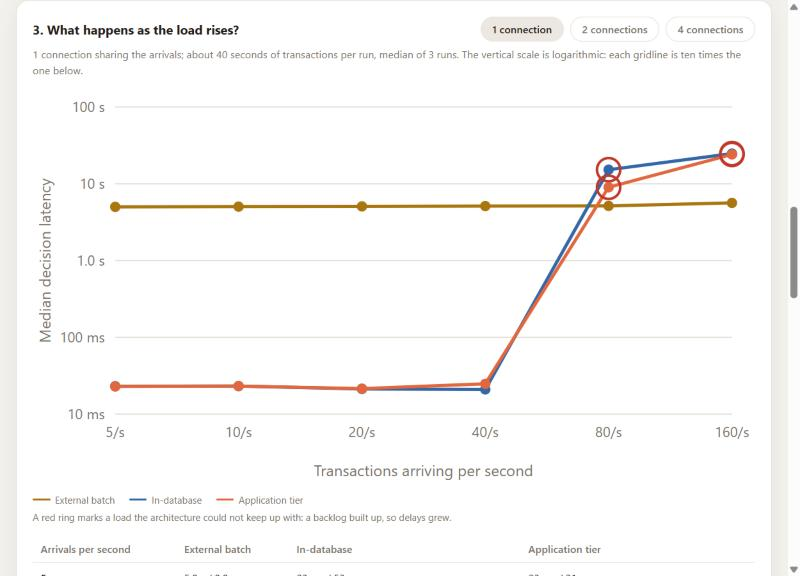
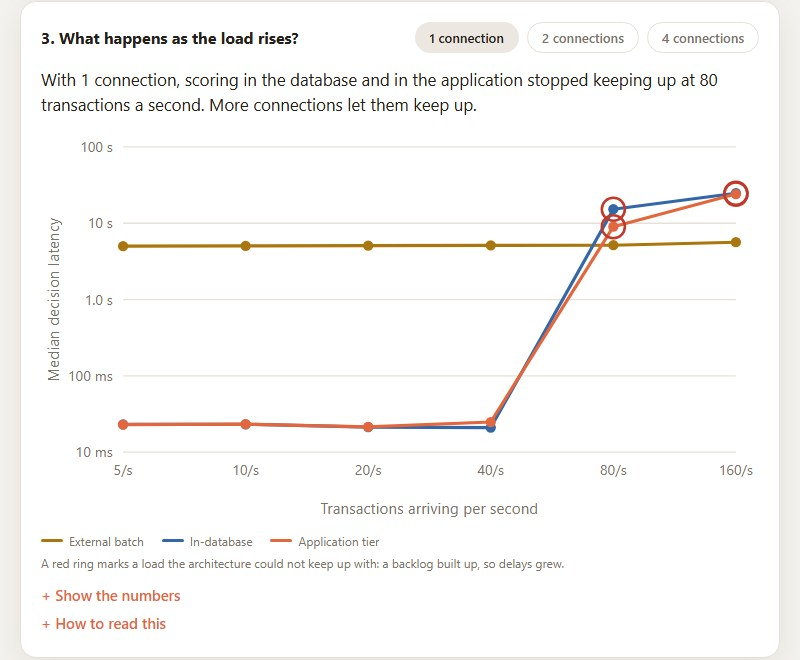
Make the results page short, with the detail behind show links
The results page now opens with a five-line summary built from the result
files, gives each section one plain sentence, and keeps the longer
explanations, the tables and the care notes behind "show" links. A Learn more
section links to this repository. The pictures and the test count in the
README are updated.

diff --git a/admin-dashboard/results.js b/admin-dashboard/results.js
@@ -72,6 +72,17 @@ function fmtNum(n, digits) {
   return typeof n === "number" ? n.toFixed(digits) : "–";
 }
 
+function pct(x) {
+  return typeof x === "number" ? `${Math.round(x * 100)}%` : "–";
+}
+
+// "23 ms inside the database and 23 ms in the application" reads badly when the two are the same
+function onArrivalPhrase(inDatabase, application) {
+  const a = fmtMs(inDatabase), b = fmtMs(application);
+  return a === b ? `about ${a}, whether inside the database or in the application`
+    : `about ${a} inside the database and ${b} in the application`;
+}
+
 function latencyCell(row) {
   const text = `${fmtMs(row.p50_ms)} / ${fmtMs(row.p99_ms)}`;
   if (!row.saturated) return text;
@@ -150,6 +161,8 @@ function legend(container, entries, note) {
 function renderDetection(d) {
   const panel = document.getElementById("detectionPanel");
   const labels = { precision: "Precision", recall: "Recall", f1: "F1 score", pr_auc: "PR-AUC", fpr: "False-positive rate" };
+  document.getElementById("detectionTake").textContent =
+    `The model found ${pct(d.metrics.recall.value)} of the frauds in the test. About ${pct(d.metrics.precision.value)} of the transactions it flagged were really fraud.`;
   document.getElementById("detectionHint").textContent =
     `Measured on the later ${d.test_transactions.toLocaleString()} transactions (${d.test_frauds} frauds), after training on the earlier ones, with the real fraud prevalence restored. ` +
     `With so few frauds the intervals are wide. Precision is ${fmtNum(d.precision_before_prevalence_restored, 2)} before the prevalence is restored, which is why that step matters.`;
@@ -167,6 +180,9 @@ function renderDetection(d) {
 }
 
 function renderBaseline(b) {
+  document.getElementById("baselineTake").textContent =
+    `A batch job took about ${fmtMs(b.architectures.external_batch.p50_ms)} to decide, because it waits for its timer. ` +
+    `Scoring as the transaction arrives took ${onArrivalPhrase(b.architectures.in_database.p50_ms, b.architectures.application.p50_ms)}.`;
   document.getElementById("baselineHint").textContent =
     `${b.transactions.toLocaleString()} transactions at ${b.rate_per_s} per second over one connection; median of ${b.runs} runs. ` +
     `A batch job that polls every ${b.batch_interval_s} seconds cannot decide faster than its polling interval; scoring on arrival decides in tens of milliseconds. The scores were identical in all three.`;
@@ -187,6 +203,31 @@ function renderSweep(s) {
   const connectionsAvailable = [...new Set(s.points.map((p) => p.connections))].sort((a, b) => a - b);
   let selected = connectionsAvailable[0];
   const pills = document.getElementById("connectionPills");
+
+  // one sentence, read from the data: where the two designs that score on arrival stopped keeping up with the fewest connections
+  const fewest = connectionsAvailable[0];
+  const firstSaturated = (mode) => {
+    const hit = s.points.filter((p) => p.connections === fewest).sort((a, b) => a.rate_per_s - b.rate_per_s)
+      .find((p) => p.architectures[mode].saturated);
+    return hit ? hit.rate_per_s : null;
+  };
+  const inDb = firstSaturated("in_database"), inApp = firstSaturated("application");
+  const conn = `${fewest} connection${fewest === 1 ? "" : "s"}`;
+  let take;
+  if (inDb && inApp) {
+    take = inDb === inApp
+      ? `With ${conn}, scoring in the database and in the application stopped keeping up at ${inDb} transactions a second.`
+      : `With ${conn}, scoring stopped keeping up at ${inDb} a second inside the database and at ${inApp} a second in the application.`;
+  } else if (inDb || inApp) {
+    take = `With ${conn}, scoring ${inDb ? "inside the database" : "in the application"} stopped keeping up at ${inDb || inApp} transactions a second.`;
+  } else {
+    take = `With ${conn}, both designs that score on arrival kept up at every load tested.`;
+  }
+  const limit = Math.min(...[inDb, inApp].filter(Boolean));
+  if (Number.isFinite(limit) && s.points.some((p) => p.connections > fewest && p.rate_per_s >= limit && !p.architectures.in_database.saturated && !p.architectures.application.saturated)) {
+    take += " More connections let them keep up.";
+  }
+  document.getElementById("sweepTake").textContent = take;
 
   function draw() {
     clear(pills);
@@ -240,6 +281,10 @@ function renderSweep(s) {
 function renderNetwork(n) {
   const roundTrips = [...new Set(n.points.map((p) => Math.round(p.round_trip_ms)))].sort((a, b) => a - b);
   const find = (rt, reads) => n.points.find((p) => Math.round(p.round_trip_ms) === rt && p.reads === reads);
+  const farthest = find(roundTrips[roundTrips.length - 1], 3);
+  document.getElementById("networkTake").textContent = farthest
+    ? `With 3 lookups per transaction and a round trip of ${roundTrips[roundTrips.length - 1]} ms, the application tier took ${fmtMs(farthest.architectures.application.p50_ms)} against ${fmtMs(farthest.architectures.in_database.p50_ms)} for the in-database design.`
+    : "The further the database is from the application, the longer the application tier waits on each lookup.";
   const line = (mode, reads, dashed) => ({
     color: MODE_COLOR[mode], dashed,
     points: roundTrips.map((rt, i) => ({ i, y: (find(rt, reads) || { architectures: {} }).architectures[mode]?.p50_ms })),
@@ -273,6 +318,31 @@ function renderNetwork(n) {
   holder.append(table(["Round trip", "Reads", "External batch", "In-database", "Application tier"], rows));
   holder.append(h("p", { class: "table-note" }, "Each cell: median decision latency."));
   document.getElementById("networkPanel").hidden = false;
+}
+
+// A few plain lines at the top, built from the same result files as everything below
+function renderSummary(results) {
+  const items = [];
+  const b = results.baseline && results.baseline.architectures;
+  if (b) {
+    items.push(`A batch job takes about ${fmtMs(b.external_batch.p50_ms)} to reach a decision.`);
+    items.push(`Scoring as the transaction arrives takes ${onArrivalPhrase(b.in_database.p50_ms, b.application.p50_ms)}.`);
+  }
+  if (results.network) {
+    const trips = [...new Set(results.network.points.map((p) => Math.round(p.round_trip_ms)))].sort((a, c) => a - c);
+    const far = results.network.points.find((p) => Math.round(p.round_trip_ms) === trips[trips.length - 1] && p.reads === 3);
+    if (far) {
+      items.push(`Far from the database, the application waits on every lookup: ${fmtMs(far.architectures.application.p50_ms)} against ${fmtMs(far.architectures.in_database.p50_ms)} at a ${trips[trips.length - 1]} ms round trip.`);
+    }
+  }
+  if (results.detection) {
+    items.push(`The model found ${pct(results.detection.metrics.recall.value)} of the frauds in a test of ${results.detection.test_transactions.toLocaleString()} transactions.`);
+  }
+  if (items.length) items.push("All three use the same model and give the same scores, so only the timing differs.");
+  const list = document.getElementById("summaryList");
+  clear(list);
+  items.forEach((text) => list.append(h("li", {}, text)));
+  document.getElementById("summaryPanel").hidden = !items.length;
 }
 
 function renderNotes(summary) {
@@ -313,6 +383,7 @@ async function load() {
     if (!response.ok) throw new Error(`The server answered ${response.status}`);
     const { results } = await response.json();
 
+    renderSummary(results);
     if (results.detection) renderDetection(results.detection);
     if (results.baseline) renderBaseline(results.baseline);
     if (results.sweep) renderSweep(results.sweep);

diff --git a/admin-dashboard/results.html b/admin-dashboard/results.html
@@ -22,13 +22,22 @@
 
     <section class="panel" id="introPanel">
       <h2>What this page shows</h2>
-      <p class="panel-hint">The study compares three ways of scoring transactions for fraud with the same model: an <strong>external batch</strong> job that polls the database, scoring <strong>inside the database</strong> as each row is stored, and scoring in the <strong>application tier</strong> (the design this live demo uses). Every figure below comes from the study's benchmark scripts and result files; none is measured on this dashboard or on the live server.</p>
-      <p class="panel-hint">Decision latency is the time from a transaction&rsquo;s scheduled arrival to the moment its fraud score is saved, so waiting in a queue counts. The data are a public dataset of European card transactions used as a stand-in; they say nothing about fraud rates in Uganda.</p>
+      <p class="panel-hint">The same fraud model was run three ways: in a separate batch job, inside the database, and in the application. This page shows which one reaches a decision first. Shorter is better.</p>
+      <details class="more">
+        <summary>More about this page</summary>
+        <p class="panel-hint">The three ways are an <strong>external batch</strong> job that polls the database, scoring <strong>inside the database</strong> as each row is stored, and scoring in the <strong>application tier</strong> (the design this live demo uses). Every figure on this page comes from the study's benchmark scripts and result files; none is measured on this dashboard or on the live server.</p>
+        <p class="panel-hint">Decision latency is the time from a transaction&rsquo;s scheduled arrival to the moment its fraud score is saved, so waiting in a queue counts. The data are a public dataset of European card transactions used as a stand-in; they say nothing about fraud rates in Uganda.</p>
+      </details>
       <p class="results-status" id="status">Loading the results&hellip;</p>
     </section>
 
-    <section class="panel" id="pipelinePanel">
-      <h2>How a transaction is scored</h2>
+    <section class="panel" id="summaryPanel" hidden>
+      <h2>In short</h2>
+      <ul class="summary-list" id="summaryList"></ul>
+    </section>
+
+    <details class="panel about-panel" id="pipelinePanel">
+      <summary><h2>How a transaction is scored</h2></summary>
       <p class="panel-hint">The prototype takes each transaction through the steps below. The three highlighted steps are the <strong>scoring</strong>, which is the part the study moves between architectures. The rule checks and the decision are not part of the benchmarks.</p>
       <ol class="flow">
         <li class="flow-step"><strong>Transaction arrives</strong><span>The amount, the time and 28 anonymized components, for a named customer.</span></li>
@@ -47,18 +56,26 @@
         <div class="where-card" style="--swatch: var(--accent)"><strong>Application tier</strong><span>The application scores the transaction first, then saves it with its score. The live demo works this way.</span></div>
       </div>
       <p class="table-note">All three use the same model and the same feature code, so only the place the scoring runs differs. To see the steps for one real transaction, use &ldquo;Analyze a Transaction&rdquo; on the dashboard.</p>
-    </section>
+    </details>
 
     <section class="panel" id="detectionPanel" hidden>
       <h2>1. How well does the model detect fraud?</h2>
-      <p class="panel-hint" id="detectionHint"></p>
+      <p class="takeaway" id="detectionTake"></p>
       <div class="metrics-grid" id="detectionCards"></div>
+      <details class="more">
+        <summary>How to read this</summary>
+        <p class="panel-hint" id="detectionHint"></p>
+      </details>
     </section>
 
     <section class="panel" id="baselinePanel" hidden>
       <h2>2. The three architectures at a light load</h2>
-      <p class="panel-hint" id="baselineHint"></p>
+      <p class="takeaway" id="baselineTake"></p>
       <div class="table-wrap" id="baselineTable"></div>
+      <details class="more">
+        <summary>How to read this</summary>
+        <p class="panel-hint" id="baselineHint"></p>
+      </details>
     </section>
 
     <section class="panel" id="sweepPanel" hidden>
@@ -66,25 +83,52 @@
         <h2>3. What happens as the load rises?</h2>
         <div class="pill-row" id="connectionPills" role="group" aria-label="Number of connections"></div>
       </div>
-      <p class="panel-hint" id="sweepHint"></p>
+      <p class="takeaway" id="sweepTake"></p>
       <div class="chart-wrap" id="sweepChart"></div>
       <div class="legend" id="sweepLegend"></div>
-      <div class="table-wrap" id="sweepTable"></div>
-      <h3 class="subhead">Memory and processor cost as connections are added (80 transactions per second)</h3>
-      <div class="table-wrap" id="costTable"></div>
+      <details class="more">
+        <summary>Show the numbers</summary>
+        <div class="table-wrap" id="sweepTable"></div>
+        <h3 class="subhead">Memory and processor cost as connections are added (80 transactions per second)</h3>
+        <div class="table-wrap" id="costTable"></div>
+      </details>
+      <details class="more">
+        <summary>How to read this</summary>
+        <p class="panel-hint" id="sweepHint"></p>
+      </details>
     </section>
 
     <section class="panel" id="networkPanel" hidden>
       <h2>4. Does distance between the application and the database matter?</h2>
-      <p class="panel-hint" id="networkHint"></p>
+      <p class="takeaway" id="networkTake"></p>
       <div class="chart-wrap" id="networkChart"></div>
       <div class="legend" id="networkLegend"></div>
-      <div class="table-wrap" id="networkTable"></div>
+      <details class="more">
+        <summary>Show the numbers</summary>
+        <div class="table-wrap" id="networkTable"></div>
+      </details>
+      <details class="more">
+        <summary>How to read this</summary>
+        <p class="panel-hint" id="networkHint"></p>
+      </details>
     </section>
 
     <section class="panel" id="notesPanel" hidden>
       <h2>Read these figures with care</h2>
-      <ul class="note-list" id="notesList"></ul>
+      <p class="takeaway">These are laboratory results on public data. They say nothing about fraud in Uganda or about any particular bank.</p>
+      <details class="more">
+        <summary>See all the notes</summary>
+        <ul class="note-list" id="notesList"></ul>
+      </details>
+    </section>
+
+    <section class="panel" id="learnPanel">
+      <h2>Learn more</h2>
+      <p class="panel-hint">The code, the full results and a technical description are in the project&rsquo;s public repository.</p>
+      <div class="learn-links">
+        <a class="btn ghost" href="https://github.com/Luckymakanga/near-data-fraud-scoring#readme" target="_blank" rel="noopener noreferrer">About the project</a>
+        <a class="btn ghost" href="https://github.com/Luckymakanga/near-data-fraud-scoring/blob/main/SYSTEM_SUMMARY.md" target="_blank" rel="noopener noreferrer">How the system works</a>
+      </div>
     </section>
   </div>
 

diff --git a/admin-dashboard/style.css b/admin-dashboard/style.css
@@ -781,6 +781,18 @@ code {
 
 .note-list li + li { margin-top: 6px; }
 
+/* Results page: a short line first, the detail behind a "show" link */
+.takeaway { font-size: 1.05rem; line-height: 1.5; margin: 4px 0 12px; }
+.summary-list { margin: 8px 0 0; padding-left: 20px; font-size: 1.02rem; line-height: 1.55; }
+.summary-list li + li { margin-top: 6px; }
+.more { margin: 8px 0 4px; }
+.more > summary { cursor: pointer; list-style: none; color: var(--accent); font-size: 0.92rem; font-weight: 600; }
+.more > summary::-webkit-details-marker { display: none; }
+.more > summary::before { content: "+ "; }
+.more[open] > summary::before { content: "\2212 "; }
+.more > :not(summary) { margin-top: 8px; }
+.learn-links { display: flex; flex-wrap: wrap; gap: 10px; margin-top: 8px; }
+
 /* ---------- How a score was made ---------- */
 
 .explain-box {

diff --git a/tests/test_results.py b/tests/test_results.py
@@ -119,6 +119,8 @@ class TestPage:
     def test_every_file_the_page_loads_exists(self):
         html = (DASHBOARD / 'results.html').read_text(encoding='utf-8')
         for name in re.findall(r'(?:src|href)="([^"]+)"', html):
+            if name.startswith('https://'):
+                continue  # links out of the application are checked in test_links_out_of_the_page
             assert (DASHBOARD / name).exists(), name
 
     def test_every_element_the_script_fills_exists_in_the_page(self):
@@ -132,3 +134,26 @@ class TestPage:
         assert 'href="results.html"' in html
         password_input = re.search(r'<input[^>]*id="password"[^>]*>', html).group(0)
         assert 'value=' not in password_input
+
+    def test_links_out_of_the_page_open_in_a_new_tab_and_cannot_reach_back(self):
+        html = (DASHBOARD / 'results.html').read_text(encoding='utf-8')
+        anchors = re.findall(r'<a [^>]*href="https://[^"]+"[^>]*>', html)
+        assert anchors, 'the learn-more links are missing'
+        for anchor in anchors:
+            assert 'target="_blank"' in anchor and 'rel="noopener noreferrer"' in anchor, anchor
+
+    def test_the_page_opens_with_a_short_summary_and_keeps_the_detail_behind_show_links(self):
+        html = (DASHBOARD / 'results.html').read_text(encoding='utf-8')
+        source = (DASHBOARD / 'results.js').read_text(encoding='utf-8')
+        for element_id in ('summaryPanel', 'summaryList', 'detectionTake', 'baselineTake', 'sweepTake', 'networkTake'):
+            assert f'id="{element_id}"' in html and f'getElementById("{element_id}")' in source, element_id
+        assert html.count('<details class="more"') >= 6
+        assert html.index('id="summaryPanel"') < html.index('id="detectionPanel"')
+
+    def test_no_result_is_typed_into_the_page(self):
+        # every figure comes from the result files, so none may be written into the page itself
+        html = (DASHBOARD / 'results.html').read_text(encoding='utf-8')
+        for panel in ('summaryPanel', 'detectionPanel', 'baselinePanel', 'sweepPanel', 'networkPanel'):
+            block = re.search(r'<section[^>]*id="' + panel + r'".*?</section>', html, re.S).group(0)
+            visible = re.sub(r'<[^>]+>', ' ', block)
+            assert not re.search(r'\d+(?:\.\d+)? ?(?:ms|seconds|per second|%)', visible), panel

diff --git a/README.md b/README.md
@@ -112,7 +112,7 @@ python benchmark_db.py stop
 
 Timing results are only meaningful on a quiet machine: close other programs first. The sweep and the network test check the machine's load and can wait for it to settle (`--wait-quiet`).
 
-**Tests.** `python -m pytest tests` runs 170 tests: 71 of the API's security behaviour (input validation, login, the signing key, error handling and the dashboard's output escaping), 16 of the results page's data and endpoint, 20 of the score explanation (it must match the score exactly and change no decision), and 20 of the rate limits (counted per visitor, health check exempt, an open dashboard never locked out), 13 of batch uploads (shared reads, a failing row, timing), 13 of the database connection recovery, and 17 of the session reset. They use a stand-in for the fraud system, so they need neither the database nor the trained model. The model, the scoring and the benchmarks have no automated tests.
+**Tests.** `python -m pytest tests` runs 173 tests: 71 of the API's security behaviour (input validation, login, the signing key, error handling and the dashboard's output escaping), 19 of the results page's data, endpoint and layout, 20 of the score explanation (it must match the score exactly and change no decision), and 20 of the rate limits (counted per visitor, health check exempt, an open dashboard never locked out), 13 of batch uploads (shared reads, a failing row, timing), 13 of the database connection recovery, and 17 of the session reset. They use a stand-in for the fraud system, so they need neither the database nor the trained model. The model, the scoring and the benchmarks have no automated tests.
 
 ---
 
